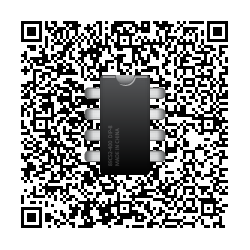
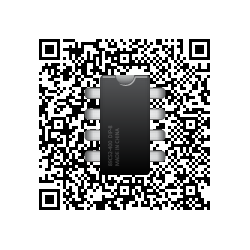
add crc & re-gen qr

Changed region(s): [[0.084, 0.084, 0.924, 0.924]]

diff --git a/src/Dataset.java b/src/Dataset.java
@@ -3,23 +3,21 @@ import java.util.zip.CRC32;
 public class Dataset {
 	public String dataset(String AID,String billerID,String ref1,String ref2,String transactioncode,String amount,String country,String Merchant,String terminal) {
 		text = "";
-		CRC32 crc = new CRC32();
 		addText("000201");
-		addText("|010212");
-		addText("|3082");
-		addText(("|00".concat(ToString(AID.length()))).concat(AID));
-		addText(("|01".concat(ToString(billerID.length()))).concat(billerID));
-		addText(("|02".concat(ToString(ref1.length()))).concat(ref1));
-		addText(("|03".concat(ToString(ref2.length()))).concat(ref2));
-		addText(("|53".concat(ToString(transactioncode.length()))).concat(transactioncode));
-		addText(("|54".concat(ToString(amount.length()))).concat(amount));
-		addText("|5802TH");
-		addText(("|59".concat(ToString(Merchant.length()))).concat(Merchant));
+		addText("010212");
+		addText("3082");
+		addText(("00".concat(ToString(AID.length()))).concat(AID));
+		addText(("01".concat(ToString(billerID.length()))).concat(billerID));
+		addText(("02".concat(ToString(ref1.length()))).concat(ref1));
+		addText(("03".concat(ToString(ref2.length()))).concat(ref2));
+		addText(("53".concat(ToString(transactioncode.length()))).concat(transactioncode));
+		addText(("54".concat(ToString(amount.length()))).concat(amount));
+		addText("5802TH");
+		addText(("59".concat(ToString(Merchant.length()))).concat(Merchant));
 		String terminalidData = ("07".concat(ToString(terminal.length()))).concat(terminal);
-		addText(("|62".concat(ToString(terminalidData.length()))).concat(terminalidData));
-//		crc.update(text.getBytes());
-//		System.out.println( Integer.toHexString((int)crc.getValue() ));
-//		addText("|6304".concat(ToString(Integer.valueOf(String.valueOf(crc.getValue()),16))));
+		addText(("62".concat(ToString(terminalidData.length()))).concat(terminalidData));
+		addText("6304");
+		addText(Integer.toHexString(crc16(text.getBytes())).toUpperCase());
 
 		return text;
 	}
@@ -30,5 +28,20 @@ public class Dataset {
 	public String text ="";
 	private void addText(String message) {
 		text+=message;
+	}
+	public static int crc16(final byte[] buffer) {
+	    int crc = 0xFFFF;
+
+	    for (int j = 0; j < buffer.length ; j++) {
+	        crc = ((crc  >>> 8) | (crc  << 8) )& 0xffff;
+	        crc ^= (buffer[j] & 0xff);//byte to int, trunc sign
+	        crc ^= ((crc & 0xff) >> 4);
+	        crc ^= (crc << 12) & 0xffff;
+	        crc ^= ((crc & 0xFF) << 5) & 0xffff;
+	    }
+	    crc &= 0xffff;
+//	    System.out.println("CRC : "+ Integer.toHexString(crc) );
+	    return crc;
+
 	}
 }

diff --git a/src/QR_Code_Generator.java b/src/QR_Code_Generator.java
@@ -106,13 +106,6 @@ public class QR_Code_Generator {
 	}
 	
 	public String text ="";
-//	private void addText(String message) {
-//		text+=message;
-//	}
-//	private String ToString(int textLenght) {
-//		if(textLenght<10) return "0".concat(String.valueOf(textLenght));
-//		return String.valueOf(textLenght);
-//	}
 	
 	int btnid=0;
 	Dataset dataset = new Dataset();
@@ -156,9 +149,6 @@ public class QR_Code_Generator {
                 terminals[i] = reString(data[8], 0, 26);
                 data1[i] = dataset.dataset(AID[i],billID[i],refer1[i],refer2[i],transcode[i], 
                 		amounts[i],countrys[i],Merchants[i],terminals[i]);
-                
-                
-//                System.out.println("CRC : "+);
                 System.out.println("data"+i+" :"+data1[i]);
                 i++;
             }
@@ -330,17 +320,17 @@ public class QR_Code_Generator {
 		merchantName.setBounds(223, 190, 397, 45);
 		frame.getContentPane().add(merchantName);
 		
-		/*JButton btnSave = new JButton("Get Data");
-		btnSave.addActionListener(new ActionListener() {
-			public void actionPerformed(ActionEvent arg0) {
-				text = data1[btnid];
-				generateQR(text);
-				img.setIcon(new ImageIcon("C:\\Users\\BenzRST\\workspace\\QRMaker\\QR.png"));
-			}
-		});
-		btnSave.setFont(new Font("Monospaced", Font.PLAIN, 20));
-		btnSave.setBounds(35, 625, 900, 73);
-		frame.getContentPane().add(btnSave);*/
+//		JButton btnSave = new JButton("Get Data");
+//		btnSave.addActionListener(new ActionListener() {
+//			public void actionPerformed(ActionEvent arg0) {
+//				text = data1[btnid];
+//				generateQR(text);
+////				img.setIcon(new ImageIcon("C:\\Users\\BenzRST\\workspace\\QRMaker\\QR.png"));
+//			}
+//		});
+//		btnSave.setFont(new Font("Monospaced", Font.PLAIN, 20));
+//		btnSave.setBounds(35, 625, 900, 73);
+//		frame.getContentPane().add(btnSave);
 		
 		JLabel lblAmount = new JLabel("Amount :");
 		lblAmount.setFont(new Font("Monospaced", Font.PLAIN, 16));
